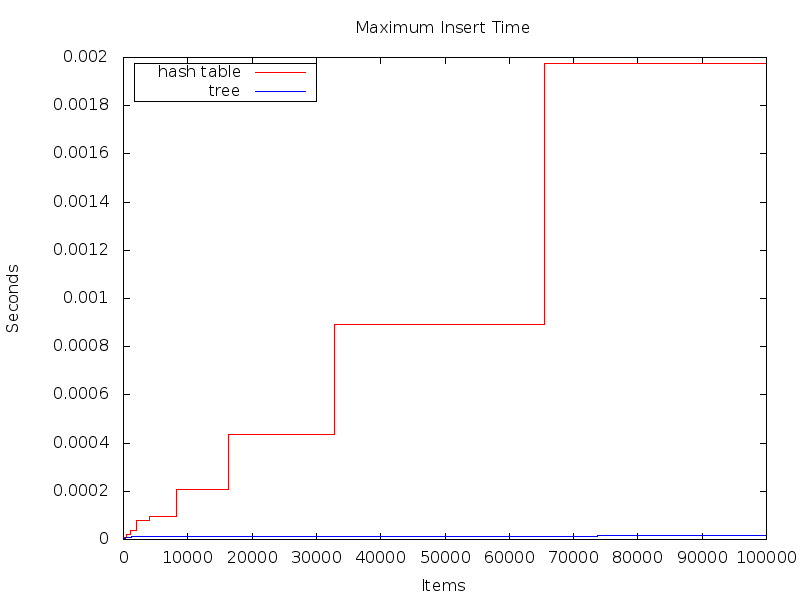
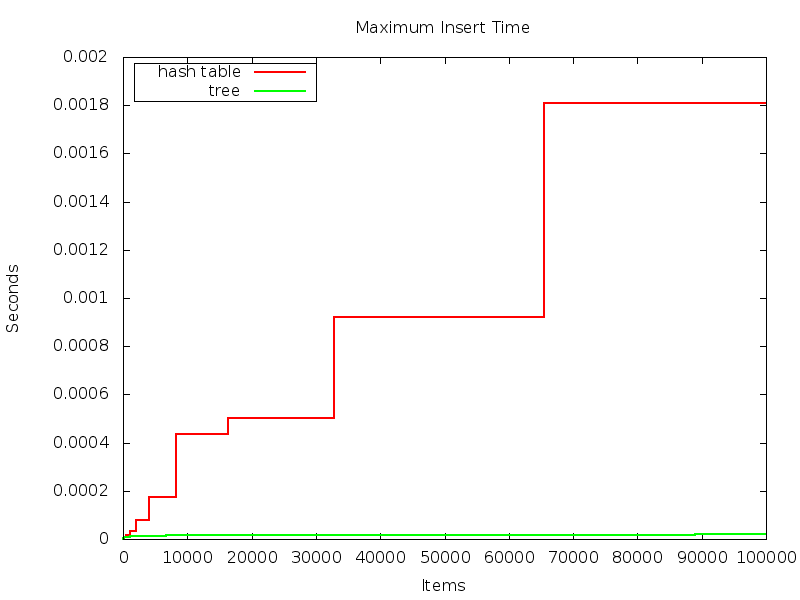
fix typo, better colors

diff --git a/README.md b/README.md
@@ -6,7 +6,7 @@ For instance, here is a graph of the maximum insert time of elements into a hash
 
 ![](src/benchmark/insert-maxtime-0.png "Maximum Insert Time")
 
-The hash table is much slower on its slowers insertions.
+The hash table is much slower on its slowest insertions.
 Here is a comparison between the standard hash table and a variant designed to spread the cost of the longest operations across many operations, thus reducing the maximum insert time:
 
 ![](src/benchmark/insert-maxtime-2.png "Maximum Insert Time")
